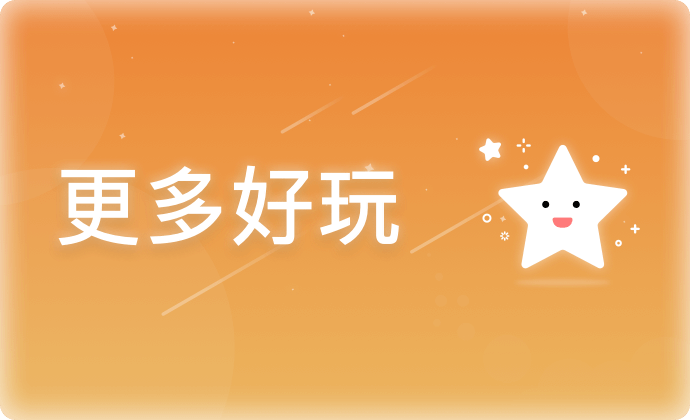
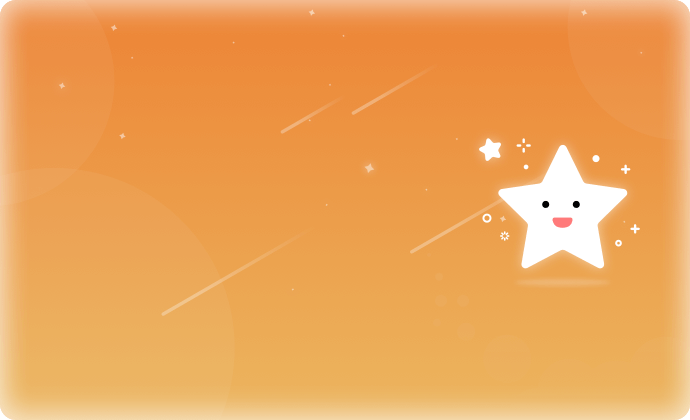
优化：优化长屏手机下的展示方案

Changed region(s): [[0.0913, 0.3714, 0.5783, 0.5881]]

diff --git a/xz_mp/constellation/pages/lot/lotdetail/lotdetail.js b/xz_mp/constellation/pages/lot/lotdetail/lotdetail.js
@@ -23,7 +23,6 @@ Page({
 			iconPath: '',
 			root: '',
 			isTitle: true
-			// root : '/pages/home/home'
 		},
 		lotDetail: {
 			qianOpenSize: 3,
@@ -362,8 +361,6 @@ Page({
 			url: '/pages/home/home',
 		})
 	}
-
-
 })
 
 
@@ -372,27 +369,64 @@ Page({
  * @param {*} qId
  */
 function getQian(qId,_self){
-	$vm.api.getX511({ id: qId })
-	.then(res => {
-		console.log('签的数据===================：', res)
-		// res.qianContent = '近朱者赤近你者甜\n近朱者赤近你者甜\n近朱者赤近你者甜\n近朱者赤近你者甜'
-		var lotDetail = parseLot(res)
-		_self.setData({
-			lotDetail: lotDetail
-		})
-	}).catch(err =>{
-		_self.setData({
-			isError : true
-		})
-		wx.showModal({
-			title: '网络错误',
-			content: '小主您的网络有点小问题哦,请重新尝试',
-			confirmText : '重新尝试',
-			showCancel: false,
-			success (){
-				getQian(qId,_self);
+	wx.getNetworkType({
+		success: function(res) {
+			console.log('输出当前网络状态：',res)
+			if(res.networkType === 'none'){
+				wx.showLoading({
+					title : '加载中...',
+					mask : true
+				})
+				setTimeout(function(){
+					$vm.api.getX511({ id: qId })
+					.then(res => {
+						console.log('签的数据===================：', res)
+						// res.qianContent = '近朱者赤近你者甜\n近朱者赤近你者甜\n近朱者赤近你者甜\n近朱者赤近你者甜'
+						var lotDetail = parseLot(res)
+						_self.setData({
+							lotDetail: lotDetail
+						})
+					}).catch(err =>{
+						_self.setData({
+							isError : true
+						})
+						wx.showModal({
+							title: '网络错误',
+							content: '小主您的网络有点小问题哦,请重新尝试',
+							confirmText : '重新尝试',
+							showCancel: false,
+							success (){
+								getQian(qId,_self);
+							}
+						})
+						console.log('进入错误状态')
+					})
+				},3000)
+			}else{
+				$vm.api.getX511({ id: qId })
+				.then(res => {
+					console.log('签的数据===================：', res)
+					// res.qianContent = '近朱者赤近你者甜\n近朱者赤近你者甜\n近朱者赤近你者甜\n近朱者赤近你者甜'
+					var lotDetail = parseLot(res)
+					_self.setData({
+						lotDetail: lotDetail
+					})
+				}).catch(err =>{
+					_self.setData({
+						isError : true
+					})
+					wx.showModal({
+						title: '网络错误',
+						content: '小主您的网络有点小问题哦,请重新尝试',
+						confirmText : '重新尝试',
+						showCancel: false,
+						success (){
+							getQian(qId,_self);
+						}
+					})
+					console.log('进入错误状态')
+				})
 			}
-		})
-		console.log('进入错误状态')
+		}
 	})
 }

diff --git a/xz_mp/constellation/pages/home/home.js b/xz_mp/constellation/pages/home/home.js
@@ -71,7 +71,8 @@ Page({
 			centerPath : '/pages/center/center'
 		},
 		clockStatus : false,  //小打卡开关
-		isBanner : false // 广告位开关
+		isBanner : false, // 广告位开关
+		isIPhoneX : false
 	},
 
 	goMore (e){
@@ -130,6 +131,7 @@ Page({
 	 * 生命周期函数--监听页面加载
 	 */
 	onLoad: function (options) {
+		getSystemInfo(this);
 		mta.Page.init()
 		const _self = this
 		const _SData = this.data
@@ -461,7 +463,7 @@ function getConfing(me){
 			})
 			return false;
 		}
-		res.bannerStatus = 1
+		// res.bannerStatus = 0
 		// console.log(res)
 		me.setData({
 			isBanner : res.bannerStatus && res.bannerStatus === 1 ? true : false,
@@ -478,4 +480,22 @@ function getConfing(me){
 			mask: true
 		})
 	})
+}
+
+
+/**
+ * 获取系统比例加入比例标识
+ * @param {*} self
+ */
+function getSystemInfo(self){
+	let res = wx.getSystemInfoSync();
+	console.log('设备信息：',res);
+	if(res){
+		// 长屏手机适配
+		if(res.screenWidth <= 375 && res.screenHeight >= 750){
+			self.setData({
+				isIPhoneX : true
+			})
+		}
+	}
 }
